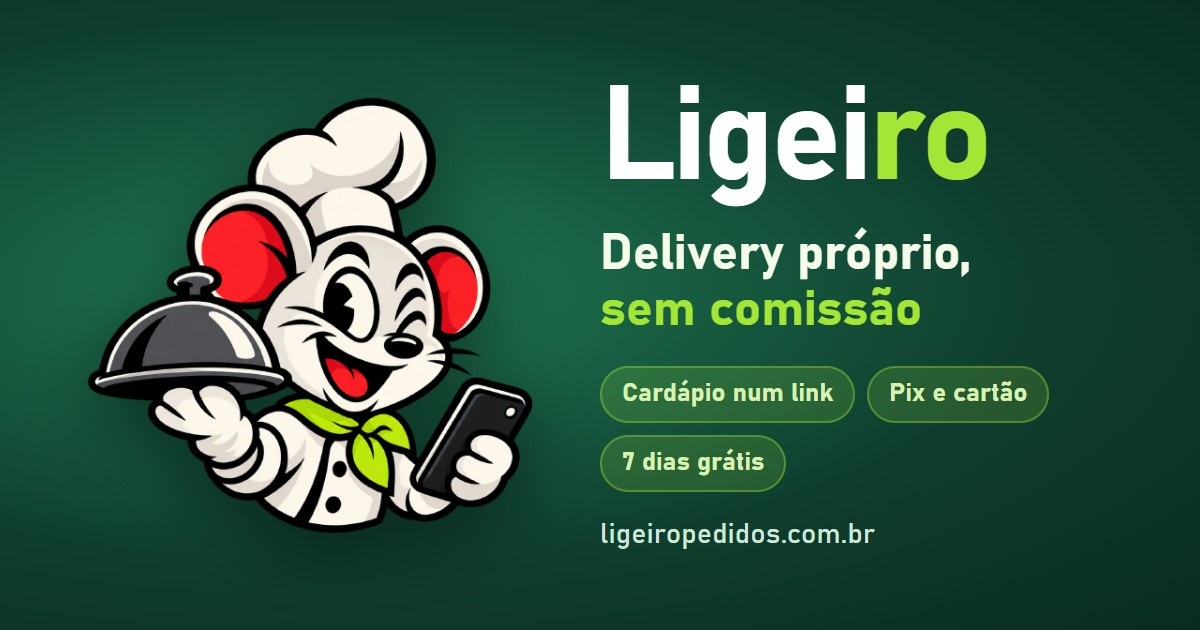
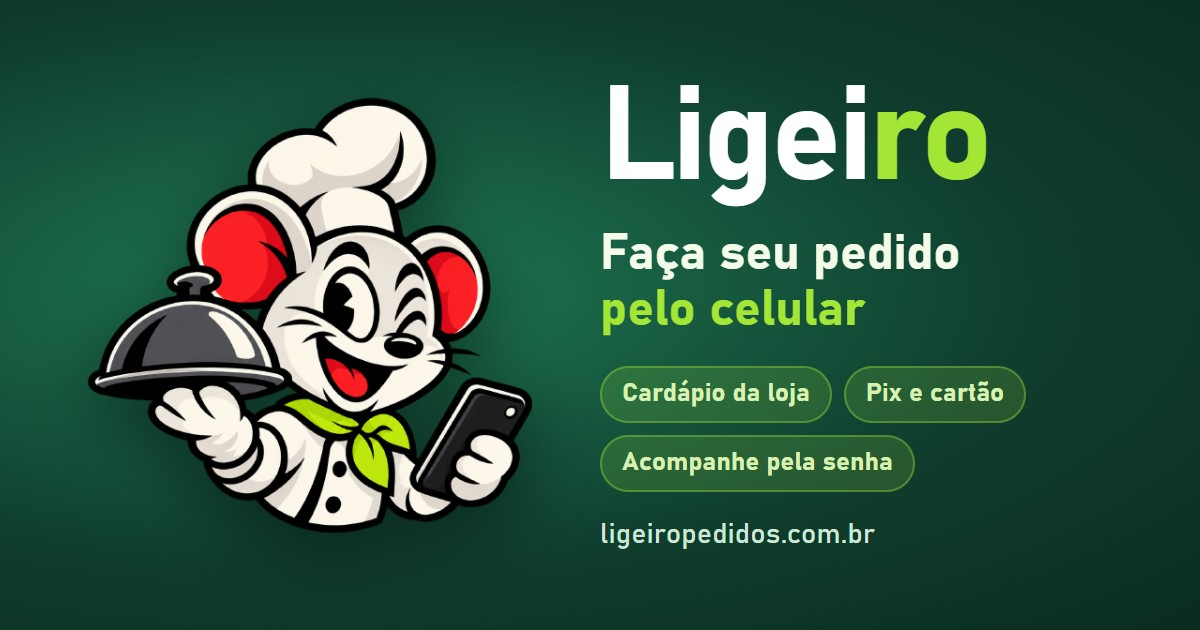
Previa do link fala com o cliente
O link de toda loja tem # e o WhatsApp nao le o que vem depois dele: todas as lojas mostram a previa do site.
A capa e o og:title/description agora convidam a pedir (cardapio da loja, Pix e cartao, senha); o titulo e a
descricao do Google continuam falando com o lojista. Versao 20260928i.

Changed region(s): [[0.4933, 0.3619, 0.7708, 0.5429], [0.5242, 0.573, 0.8942, 0.7841]]

diff --git a/index.html b/index.html
@@ -13,13 +13,13 @@
   <meta property="og:site_name" content="Ligeiro">
   <meta property="og:locale" content="pt_BR">
   <meta property="og:url" content="https://ligeiropedidos.com.br/">
-  <meta property="og:title" content="Ligeiro: pedido ligeiro, sem comissão">
-  <meta property="og:description" content="Delivery próprio, sem comissão: cardápio num link, Pix e cartão pelo site e pedido acompanhado pela senha.">
+  <meta property="og:title" content="Ligeiro: faça seu pedido pelo celular">
+  <meta property="og:description" content="Cardápio da loja, Pix ou cartão pelo site e o pedido acompanhado pela senha. Sem baixar app e sem cadastro.">
   <meta property="og:image" content="https://ligeiropedidos.com.br/img/previa-link.jpg">
   <meta property="og:image:type" content="image/jpeg">
   <meta property="og:image:width" content="1200">
   <meta property="og:image:height" content="630">
-  <meta property="og:image:alt" content="O mascote do Ligeiro, um ratinho cozinheiro, e a frase Delivery próprio, sem comissão">
+  <meta property="og:image:alt" content="O mascote do Ligeiro, um ratinho cozinheiro, e a frase Faça seu pedido pelo celular">
   <meta name="twitter:card" content="summary_large_image">
   <script type="application/ld+json">{"@context":"https://schema.org","@graph":[{"@type":"Organization","name":"Ligeiro","url":"https://ligeiropedidos.com.br/","logo":"https://ligeiropedidos.com.br/icone-512.png"},{"@type":"WebSite","name":"Ligeiro","url":"https://ligeiropedidos.com.br/","inLanguage":"pt-BR"}]}</script>
   <link rel="preconnect" href="https://ligeiro-mp.ligeiro-pedidos.workers.dev" crossorigin>
@@ -30,7 +30,7 @@
   <link rel="icon" type="image/png" sizes="96x96" href="img/favicon-96.png">
   <link rel="icon" type="image/png" sizes="192x192" href="img/favicon-192.png">
   <link rel="apple-touch-icon" sizes="180x180" href="apple-touch-icon.png">
-  <link rel="stylesheet" href="css/ligeiro.css?v=20260928h">
+  <link rel="stylesheet" href="css/ligeiro.css?v=20260928i">
 </head>
 <body>
 
@@ -43,15 +43,15 @@
 <div class="torrada" id="torrada" role="status" aria-live="polite"></div>
 <div class="ficha-impressao" id="fichaImpressao"></div>
 
-<script src="js/config.js?v=20260928h"></script>
-<script src="js/regras.js?v=20260928h"></script>
-<script src="js/pix.js?v=20260928h"></script>
-<script src="js/dados.js?v=20260928h"></script>
-<script src="js/ui.js?v=20260928h"></script>
-<script src="js/avisos.js?v=20260928h"></script>
-<script src="js/cliente.js?v=20260928h"></script>
+<script src="js/config.js?v=20260928i"></script>
+<script src="js/regras.js?v=20260928i"></script>
+<script src="js/pix.js?v=20260928i"></script>
+<script src="js/dados.js?v=20260928i"></script>
+<script src="js/ui.js?v=20260928i"></script>
+<script src="js/avisos.js?v=20260928i"></script>
+<script src="js/cliente.js?v=20260928i"></script>
 <script>/* telas de venda (#/, #/lojas, #/entrar...): o codigo delas vem junto, na ordem; na loja do cliente, nao */
-(function () { var p = location.hash.replace(/^#\/?/, '').split('/')[0]; if (['', 'lojas', 'assinar', 'entrar', 'termos', 'privacidade', 'conta', 'comecar'].indexOf(p) >= 0) document.write('<script src="js/cidades.js?v=20260928h"><\/script><script src="js/parceiro.js?v=20260928h"><\/script>'); })();</script>
-<script src="js/app.js?v=20260928h"></script>
+(function () { var p = location.hash.replace(/^#\/?/, '').split('/')[0]; if (['', 'lojas', 'assinar', 'entrar', 'termos', 'privacidade', 'conta', 'comecar'].indexOf(p) >= 0) document.write('<script src="js/cidades.js?v=20260928i"><\/script><script src="js/parceiro.js?v=20260928i"><\/script>'); })();</script>
+<script src="js/app.js?v=20260928i"></script>
 </body>
 </html>

diff --git a/sw.js b/sw.js
@@ -3,7 +3,7 @@
  * Os pedidos em si nunca passam por aqui (vao direto pro banco de dados).
  */
 /* MESMO numero do ?v= do index.html: os dois sobem juntos. */
-var VERSAO = 'ligeiro-20260928h';
+var VERSAO = 'ligeiro-20260928i';
 /* So a casca entra no cache na instalacao; o resto (js/css com ?v=) entra na primeira visita, pela rede.
    O icone de 512 e o mascote em PNG ficam de fora: so servem para instalar na tela de inicio, e o navegador busca
    sozinho quando precisa (antes todo cliente baixava os dois a toa) */

diff --git a/LEIA-ME.md b/LEIA-ME.md
@@ -405,7 +405,9 @@ Tema exclusivo de loja: as regras e o passo a passo antes de publicar estão em 
 4. Ícones e prévia do link (24/09/2026): o mascote sem fundo nos ícones da aba (`img/favicon-48/96/192.png`) e
    no ícone `any` do manifesto; com fundo branco no iPhone (`apple-touch-icon.png`, 180) e no `maskable` do
    Android (`icone-maskable-*.png`, mascote em 70% do quadro, que o sistema recorta em círculo). A prévia do
-   WhatsApp e das redes é `img/previa-link.jpg` (1200x630). Para refazer, em `../comercial`:
+   WhatsApp e das redes é `img/previa-link.jpg` (1200x630) e fala com quem vai pedir, porque o link de toda loja
+   tem `#` e o WhatsApp não lê o que vem depois dele: todas as lojas mostram esta mesma prévia. O título e a
+   descrição do Google (`<title>` e `description`) continuam falando com o lojista. Para refazer, em `../comercial`:
    `hypit capture run scripts/icones.mjs --channel chrome -- out/icones`, depois
    `node scripts/png_paleta.mjs <entrada> <saida>` em cada PNG (paleta de 256 cores, até 10 vezes menor, igual a
    olho) e `hypit capture run scripts/previa_link.mjs --channel chrome -- out/icones/previa-link.jpg`.
